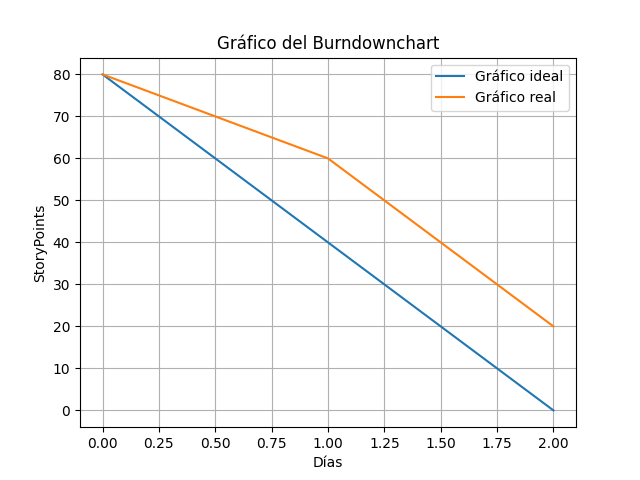
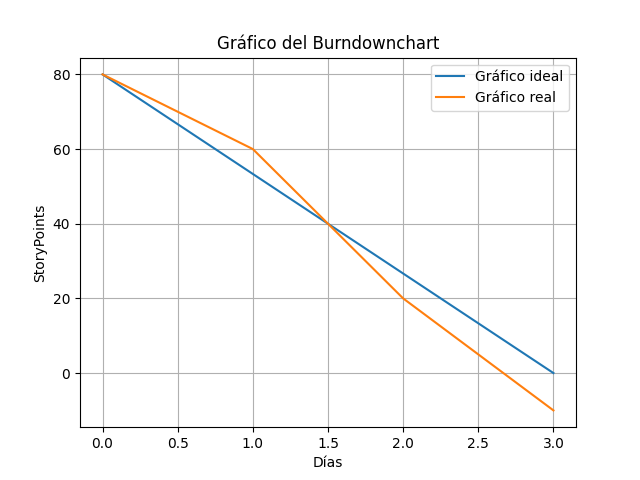
En Burndownchart, dias domingos omitidos y corregido en caso de que una tarea se realice fuera del rango estimado del sprint

diff --git a/sprint/views.py b/sprint/views.py
@@ -69,7 +69,8 @@ def ver_burndownchart(request, pk, sp_pk):
     fecha_fin = sprint.fecha_fin
 
     # duracion del sprint en dias
-    dias = (fecha_fin-fecha_inicio).days
+    #dias = (fecha_fin-fecha_inicio).days
+    dias = np.busday_count(fecha_inicio, fecha_fin, weekmask='1111110')
     # generacion del eje x del burndownchart
     x1 = np.arange(0, dias+1, 1)
     # funcion del eje y
@@ -99,17 +100,50 @@ def ver_burndownchart(request, pk, sp_pk):
     j = 1
 
     for clave, valor in dic.items():
-        print("El valor es: ", valor)
-        aux = aux - valor
-        y2.append(aux)
-        print("La clave es: ", clave)
-        if( ( clave - fecha_inicio ).days == j ):
-            x2.append(j)
-            j = j + 1
-        else:
-            while( (clave - fecha_inicio).days != j ):
+        if( (fecha_fin - clave).days >= 0 ):
+            print("El valor es: ", valor)
+            aux = aux - valor
+            y2.append(aux)
+            print("La clave es: ", clave)
+            if ((clave - fecha_inicio).days == j):
+                x2.append(j)
                 j = j + 1
-            x2.append(j)
+            else:
+                while ((clave - fecha_inicio).days != j):
+                    j = j + 1
+                x2.append(j)
+        else:
+            # cambiamos la fecha fin
+            print(type(fecha_fin))
+            print(type(clave))
+            fecha_fin = clave
+            print("fecha inicio: ", fecha_inicio)
+            print("fecha fin nuevo: ", fecha_fin)
+            # luego recalculamos los dias que contiene el sprint
+            dias = np.busday_count(fecha_inicio, fecha_fin, weekmask='1111110') + 1
+            # generacion del eje x del burndownchart
+            x1 = np.arange(0, dias + 1, 1)
+            print("nuevo dias: ", dias)
+            print("x1: ", x1)
+            # funcion del eje y
+            y1 = sp - (sp * x1 / dias)
+
+            figura, ax1 = plt.subplots()
+            ax1.plot(x1, y1, label='Gráfico ideal')
+
+
+            print("El valor es: ", valor)
+            aux = aux - valor
+            y2.append(aux)
+            print("La clave es: ", clave)
+            if ((clave - fecha_inicio).days == j):
+                x2.append(j)
+                j = j + 1
+            else:
+                while ((clave - fecha_inicio).days != j):
+                    j = j + 1
+                x2.append(j)
+
 
     print(x2)
     print(y2)
